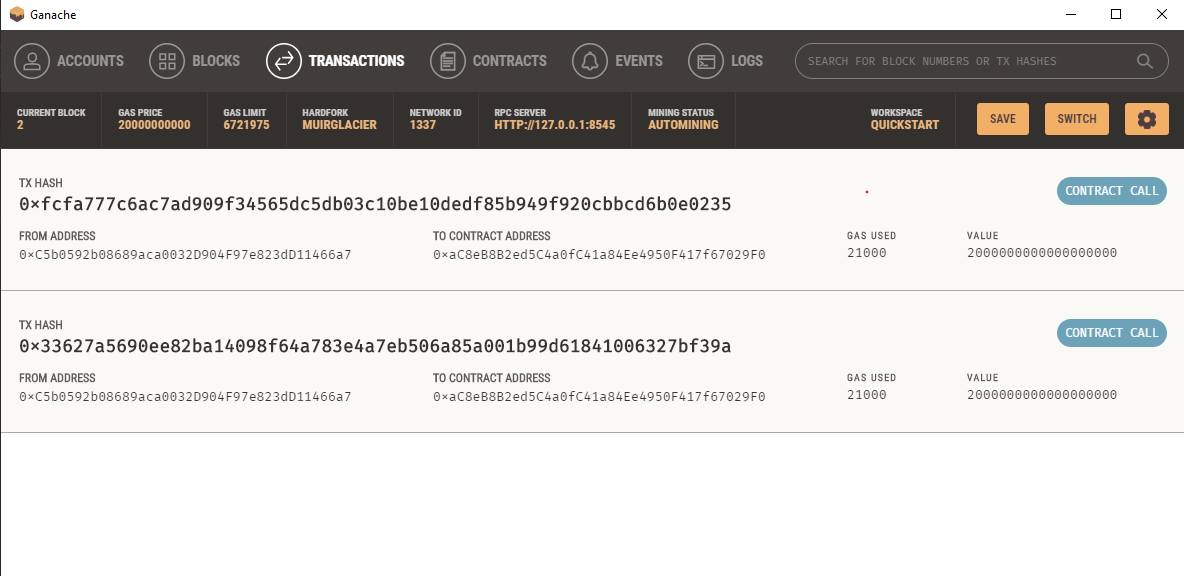
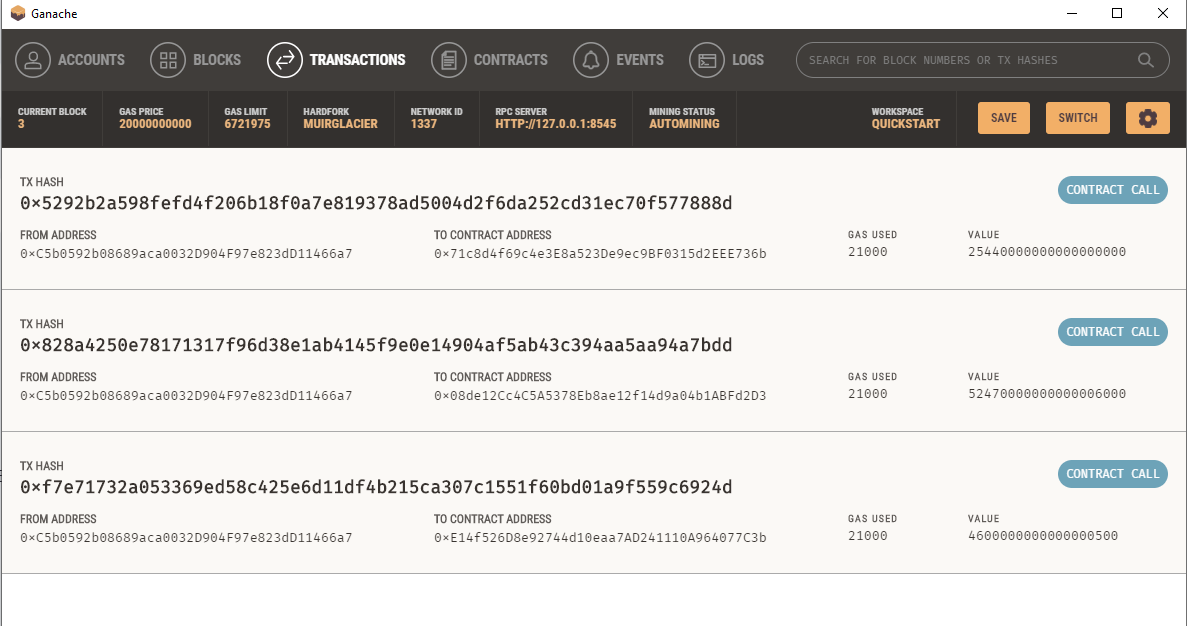
Update directory name

diff --git a/Module-02/fintech_finder.py b/Module-02/fintech_finder.py
@@ -16,10 +16,10 @@ from crypto_wallet import generate_account, get_balance, send_transaction
 # Database of Fintech Finder candidates including their name, digital address, rating and hourly cost per Ether.
 # A single Ether is currently valued at $1,500
 candidate_database = {
-    "Lane": ["Lane", "0xaC8eB8B2ed5C4a0fC41a84Ee4950F417f67029F0", "4.3", .20, "Images/lane.jpeg"],
-    "Ash": ["Ash", "0x2422858F9C4480c2724A309D58Ffd7Ac8bF65396", "5.0", .33, "Images/ash.jpeg"],
-    "Jo": ["Jo", "0x8fD00f170FDf3772C5ebdCD90bF257316c69BA45", "4.7", .19, "Images/jo.jpeg"],
-    "Kendall": ["Kendall", "0x8fD00f170FDf3772C5ebdCD90bF257316c69BA45", "4.1", .16, "Images/kendall.jpeg"]
+    "Lane": ["Lane", "0xE14f526D8e92744d10eaa7AD241110A964077C3b", "4.3", .20, "Images/lane.jpeg"],
+    "Ash": ["Ash", "0x08de12Cc4C5A5378Eb8ae12f14d9a04b1ABFd2D3", "5.0", .33, "Images/ash.jpeg"],
+    "Jo": ["Jo", "0xc5FB00FbCDfC51Aa7d793D158aE370b18135f0e1", "4.7", .19, "Images/jo.jpeg"],
+    "Kendall": ["Kendall", "0x71c8d4f69c4e3E8a523De9ec9BF0315d2EEE736b", "4.1", .16, "Images/kendall.jpeg"]
 }
 
 # A list of the FinTech Finder candidates first names
